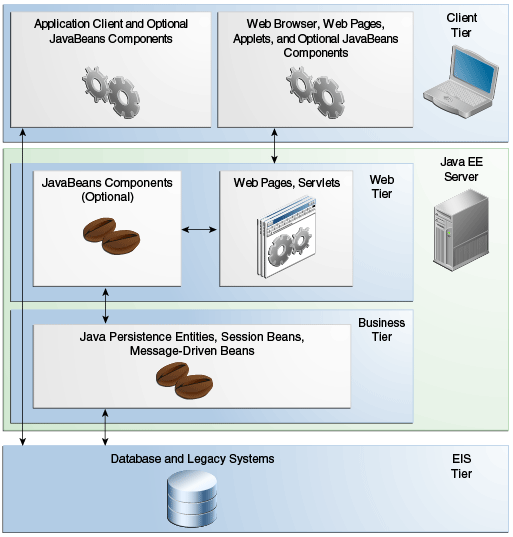
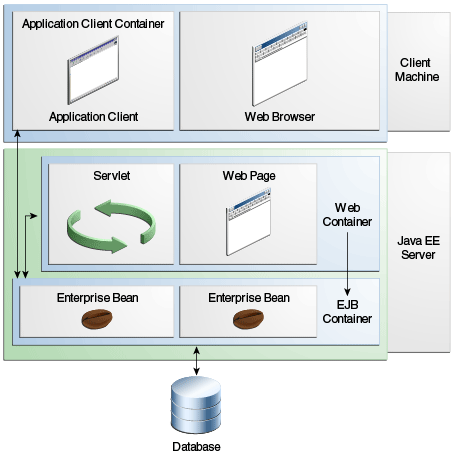
GitBook: [master] 5 pages and 6 assets modified

diff --git a/javaee/java-ee-8-tutorial/part-1.-introduction/1.overview/java-ee-containers.md b/javaee/java-ee-8-tutorial/part-1.-introduction/1.overview/java-ee-containers.md
@@ -25,7 +25,7 @@ description: Контейнеры Java EE
 
 Процесс развертывания устанавливает компоненты приложения Java в Java ЕЕ контейнеры, как показано на рис. 1-5.
 
-![ &#x420;&#x438;&#x441;. 1-5 &#x441;&#x435;&#x440;&#x432;&#x435;&#x440; &#x438; &#x43A;&#x43E;&#x43D;&#x442;&#x435;&#x439;&#x43D;&#x435;&#x440;&#x44B; Java EE](../../../../.gitbook/assets/image%20%284%29.png)
+![ &#x420;&#x438;&#x441;. 1-5 &#x441;&#x435;&#x440;&#x432;&#x435;&#x440; &#x438; &#x43A;&#x43E;&#x43D;&#x442;&#x435;&#x439;&#x43D;&#x435;&#x440;&#x44B; Java EE](../../../../.gitbook/assets/image%20%283%29.png)
 
 Сервер и контейнеры следующие:
 

diff --git a/other/instruments/tomcat/README.md b/other/instruments/tomcat/README.md
@@ -4,5 +4,7 @@ description: Здесь будет лежать все что я знаю про
 
 # Tomcat
 
+![Tomcat](../../../.gitbook/assets/tomcat.png)
+
 Tomcat представляет веб-контейнер сервлетов и предназначен для работы с рядом технологий Java EE, в частности, с JSP, сервлетами и рядом других. Нередко Tomcat называют веб-сервером.
 

diff --git a/other/linux/notes/creating-a-shortcut-for-app.md b/other/linux/notes/creating-a-shortcut-for-app.md
@@ -1,0 +1,24 @@
+---
+description: Создание ярлыка
+---
+
+# Creating a shortcut for app
+
+1. Создать \*.desktop файл в /usr/share/applications
+2.  Пример файла: 
+
+```text
+[Desktop Entry]
+Encoding=UTF-8
+Version=1.0
+Name=Eclipse
+Comment=Eclipse EE IDE
+Exec=/home/user/eclipse/eclipse
+Icon=/home/user/elcipse/icon.xpm
+Terminal=false
+Type=Application
+Categories=IDE;
+```
+
+     3. Сохранить файл
+

diff --git a/SUMMARY.md b/SUMMARY.md
@@ -54,4 +54,5 @@
 * [Linux](other/linux/README.md)
   * [Notes](other/linux/notes/README.md)
     * [Services in Ubuntu](other/linux/notes/services-in-ubuntu.md)
+    * [Creating a shortcut for app](other/linux/notes/creating-a-shortcut-for-app.md)
 
